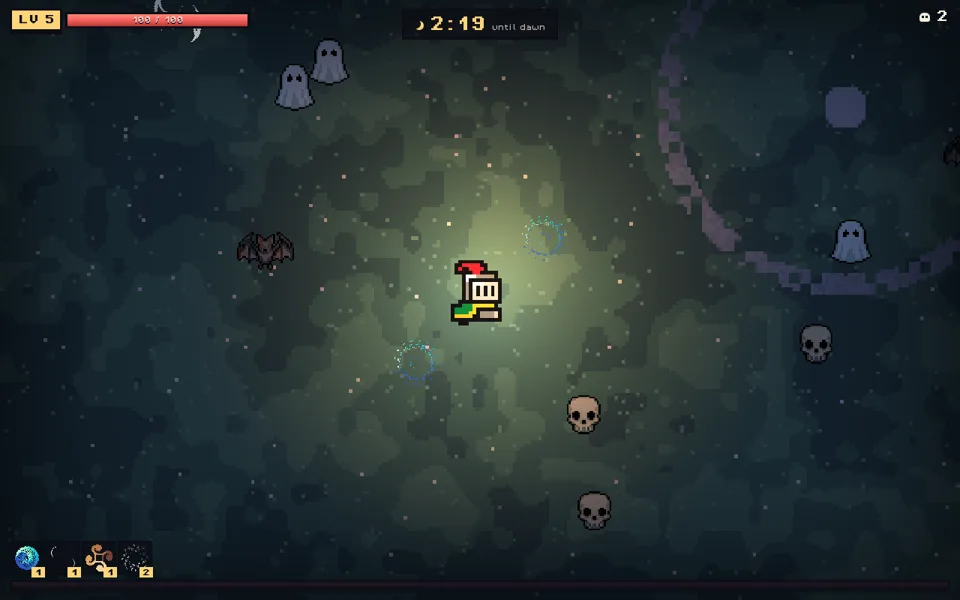
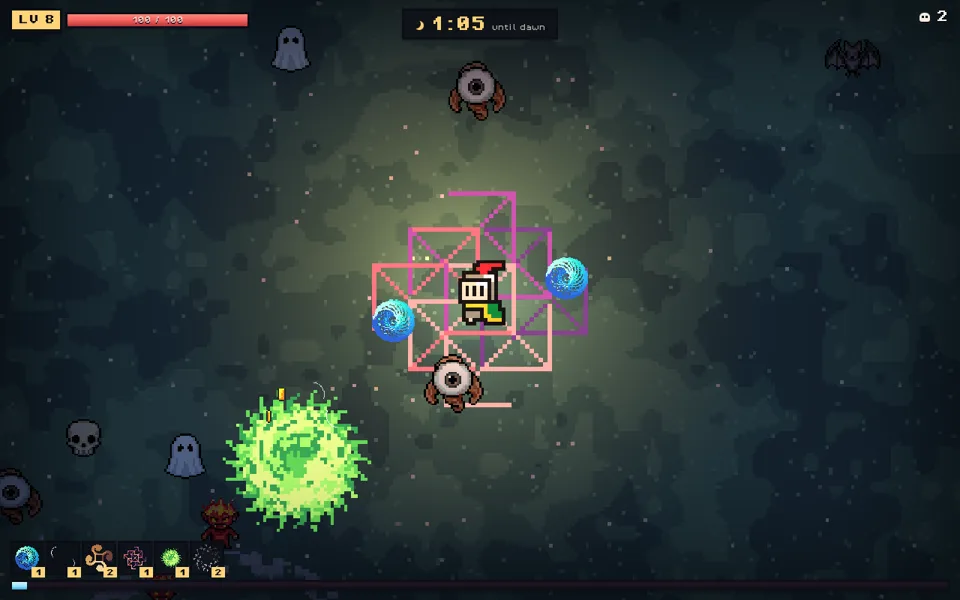
feat(showcase): add the share image and draw ground spells under the monsters

diff --git a/showcase/public/games/lumen-vigil/main.js b/showcase/public/games/lumen-vigil/main.js
@@ -144,6 +144,7 @@ const shardObjects = [];
 const fxObjects = [];
 const shotObjects = [];
 const HIDDEN = 100000;
+const GROUND_FX = new Set(["sigil", "ward"]);
 for (let i = 0; i < MAX_ENEMIES; i++) enemyObjects.push(sprite(`enemy_${i}`, "mat_mon_0", 32, 32, -50));
 for (let i = 0; i < MAX_SHARDS; i++) shardObjects.push(sprite(`shard_${i}`, "mat_shard_0", 12, 12, -50));
 for (let i = 0; i < MAX_FX; i++) fxObjects.push(sprite(`fx_${i}`, "fx_bloom_0", 64, 64, -50));
@@ -864,7 +865,8 @@ function updateFx(dt) {
             f.y = player.y;
         }
         const o = fxObjects[i];
-        o.transform.position = { x: f.x, y: f.y, z: 5 + i * 0.001 };
+        // Ground effects (seals, thorn fields) sit under the monsters; the rest glows on top
+        o.transform.position = { x: f.x, y: f.y, z: (GROUND_FX.has(f.name) ? 0.6 : 5) + i * 0.001 };
         o.transform.scale = { x: f.size, y: f.size, z: 1 };
         o.material = `fx_${f.name}_${frame}`;
     }
